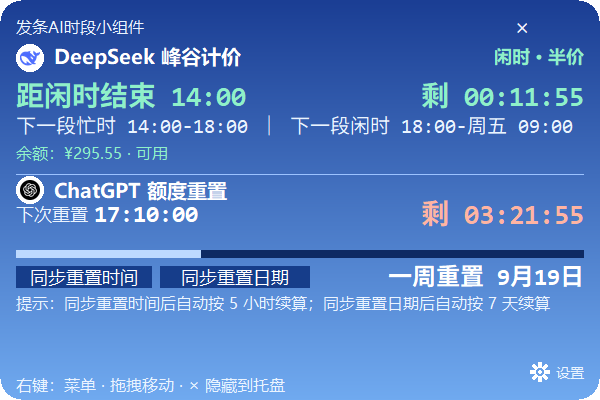
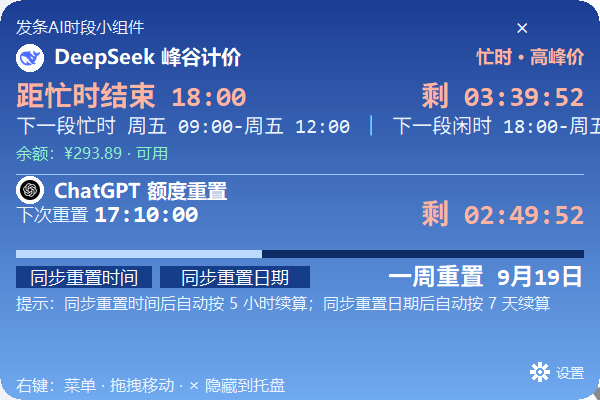
fix: launcher prefers user Python 3.11 (avoid broken workbuddy python); add single-instance guard

diff --git a/deepseek_chatgpt_timer.py b/deepseek_chatgpt_timer.py
@@ -298,10 +298,30 @@ def fmt_week_until(td) -> str:
     return f"{d}天 {h:02d}:{m:02d}" if d > 0 else f"{h:02d}:{m:02d}"
 
 
+def _activate_existing_instance() -> bool:
+    """已有实例运行时：显示并置前其窗口，返回 True（新实例应退出）。"""
+    try:
+        user32 = ctypes.windll.user32
+        hwnd = user32.FindWindowW(None, "发条AI时段小组件")
+        if hwnd:
+            if not user32.IsWindowVisible(hwnd):
+                user32.ShowWindow(hwnd, 5)     # SW_SHOW（从托盘隐藏恢复）
+            user32.ShowWindow(hwnd, 9)         # SW_RESTORE
+            user32.SetForegroundWindow(hwnd)
+            user32.BringWindowToTop(hwnd)
+            return True
+    except Exception:
+        pass
+    return False
+
+
 # ---------------- 小组件 UI（双页面：主界面 / 设置页） ----------------
 class Widget(tk.Tk):
 
     def __init__(self):
+        # 单实例：已有小组件在运行则激活它，避免重复启动
+        if _activate_existing_instance():
+            sys.exit(0)
         super().__init__()
         self.cfg = self.load_cfg()
         self.counter = ChatGPTCounter(self.cfg)
